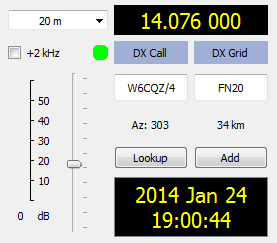
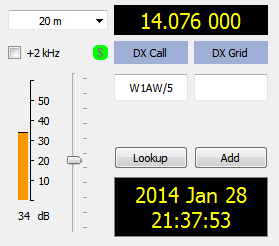
1. Updated two screen pix in User's Guide. 2. Revise, revise, revise.  Good writing requires plenty of revisions!
git-svn-id: svn+ssh://svn.code.sf.net/p/wsjt/wsjt/branches/wsjtx@3667 ab8295b8-cf94-4d9e-aec4-7959e3be5d79

diff --git a/mainwindow.cpp b/mainwindow.cpp
@@ -1,4 +1,4 @@
-//---------------------------------------------------------- MainWindow
+//----------------------------------------------------------- MainWindow
 #include "mainwindow.h"
 #include "ui_mainwindow.h"
 
